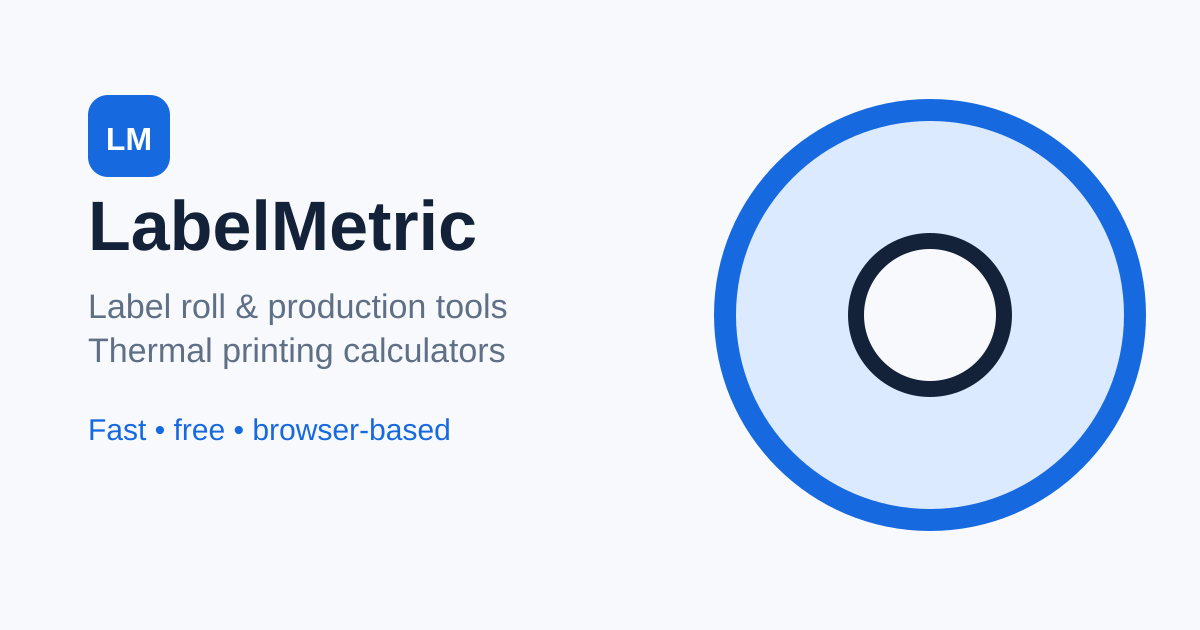
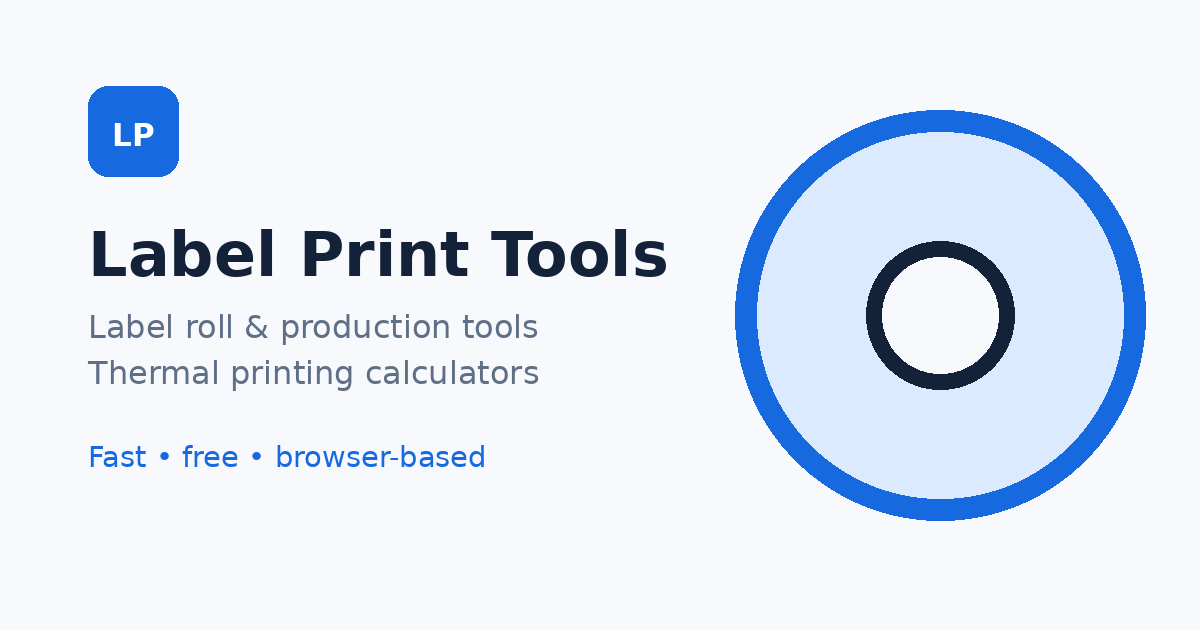
Add files via upload

diff --git a/src/config/site.ts b/src/config/site.ts
@@ -1,10 +1,10 @@
 export const siteConfig = {
-  name: 'LabelMetric',
-  shortName: 'LabelMetric',
-  tagline: 'Label printing calculators that work on the production floor.',
+  name: 'Label Print Tools',
+  shortName: 'Label Print Tools',
+  tagline: 'Free label printing calculators and production tools.',
   description:
     'Free label printing calculators for roll capacity, remaining labels, roll diameter, web width, thermal ribbons, ZPL dimensions, sheet layouts and production planning.',
-  email: 'hello@labelmetric.example',
+  email: 'hello@labelprinttools.com',
   socialImage: '/social-card.png',
   nav: [
     { label: 'Label Rolls', href: '/label-roll/' },

diff --git a/src/pages/robots.txt.ts b/src/pages/robots.txt.ts
@@ -3,7 +3,7 @@ import type { APIRoute } from 'astro';
 export const prerender = true;
 
 export const GET: APIRoute = ({ site }) => {
-  const base = site ?? new URL('https://labelmetric.example');
+  const base = site ?? new URL('https://www.labelprinttools.com');
   const body = `User-agent: *\nAllow: /\n\nSitemap: ${new URL('/sitemap-index.xml', base).toString()}\n`;
   return new Response(body, { headers: { 'Content-Type': 'text/plain; charset=utf-8' } });
 };

diff --git a/src/lib/seo.ts b/src/lib/seo.ts
@@ -1,7 +1,7 @@
 import { siteConfig } from '../config/site';
 
 export function absoluteUrl(pathname: string, site?: URL | string | null): string {
-  const base = site ? site.toString() : 'https://labelmetric.example';
+  const base = site ? site.toString() : 'https://www.labelprinttools.com';
   return new URL(pathname, base).toString();
 }
 

diff --git a/src/lib/calculator-ui.ts b/src/lib/calculator-ui.ts
@@ -40,7 +40,7 @@ export function setError(message = '') {
 }
 
 export function rememberForm(form: HTMLFormElement, key: string) {
-  const storageKey = `labelmetric:${key}`;
+  const storageKey = `labelprinttools:${key}`;
   try {
     const saved = localStorage.getItem(storageKey);
     if (saved) {

diff --git a/README.md b/README.md
@@ -1,4 +1,4 @@
-# LabelMetric
+# Label Print Tools
 
 A production-ready Astro + TypeScript website for label-roll, label-production and thermal-printing calculators.
 
@@ -59,15 +59,11 @@ $env:SITE_URL="https://www.yourdomain.com"
 npm run build
 ```
 
-## 2. Change the brand and contact email
+## 2. Brand and canonical domain
 
-Edit only:
+The project is configured for **Label Print Tools** and the planned public domain **https://www.labelprinttools.com**.
 
-`src/config/site.ts`
-
-The starter uses **LabelMetric** as a working brand and `hello@labelmetric.example` as a placeholder email. Replace the email before public launch. If you choose a different brand, change it in this config file.
-
-The final public domain is controlled by the `SITE_URL` environment variable, not hard-coded across the pages.
+Brand/contact settings live in `src/config/site.ts`. The production canonical origin can be overridden with the `SITE_URL` environment variable. Before the custom domain is connected, the Vercel preview can still be used for testing; do not submit the preview URL to search engines.
 
 ## 3. Put the project on GitHub
 
@@ -76,7 +72,7 @@ Create a new empty GitHub repository, then from this project folder run:
 ```bash
 git init
 git add .
-git commit -m "Initial LabelMetric launch"
+git commit -m "Initial Label Print Tools launch"
 git branch -M main
 git remote add origin https://github.com/YOUR-USERNAME/YOUR-REPO.git
 git push -u origin main
@@ -91,7 +87,7 @@ You can also upload the extracted project folder through GitHub's web interface,
 3. Vercel should detect **Astro** automatically.
 4. Build command: `npm run build`
 5. Output directory: `dist`
-6. Add an environment variable named `SITE_URL` with the final canonical origin, for example `https://www.example.com`.
+6. Add an environment variable named `SITE_URL` with the final canonical origin, use `https://www.labelprinttools.com` once the custom domain is connected.
 7. Deploy.
 
 The site uses static output, so no database, paid API or server runtime is required for the calculators.
@@ -100,7 +96,7 @@ The site uses static output, so no database, paid API or server runtime is requi
 
 In Vercel open the project and go to **Settings → Domains**. Add both your root domain and the `www` version if you plan to use both. Vercel will show the DNS records required for your exact configuration. Add those records at your domain registrar.
 
-Choose one public version as the primary domain (for example `https://www.example.com`) and set `SITE_URL` to that exact origin. Redeploy after changing `SITE_URL` so canonicals, sitemap URLs, robots.txt and structured-data URLs use the final domain.
+Choose one public version as the primary domain (for example `https://www.labelprinttools.com`) and set `SITE_URL` to that exact origin. Redeploy after changing `SITE_URL` so canonicals, sitemap URLs, robots.txt and structured-data URLs use the final domain.
 
 Do not hard-code an old Vercel DNS IP from a tutorial; use the DNS values Vercel displays for your project at deployment time.
 
@@ -121,8 +117,7 @@ After the custom domain is live:
 
 Before public launch, replace:
 
-- Placeholder contact email in `src/config/site.ts`
-- Working brand if you choose another name
+- Confirm the contact email in `src/config/site.ts` can receive mail
 - Privacy/Terms wording with the final operator/contact details and any analytics or advertising disclosures you actually use
 
 If you add Google Analytics, AdSense, affiliate tracking, cookie tools or other third-party scripts later, update the privacy policy and consent behavior to match the jurisdictions and services involved.

diff --git a/PROJECT_MANIFEST.md b/PROJECT_MANIFEST.md
@@ -1,4 +1,4 @@
-# LabelMetric Launch Manifest
+# Label Print Tools Launch Manifest
 
 ## Launch calculators
 
@@ -57,8 +57,8 @@
 
 ## Before public launch
 
-- Choose and verify the final brand/domain.
-- Replace placeholder email in `src/config/site.ts`.
-- Set Vercel `SITE_URL` to the exact primary production origin.
+- Brand/domain selected: **Label Print Tools** / **https://www.labelprinttools.com**.
+- Confirm `hello@labelprinttools.com` is configured or change the contact email in `src/config/site.ts`.
+- Set Vercel `SITE_URL` to `https://www.labelprinttools.com` when the custom domain is connected.
 - Review final Privacy/Terms wording for the site owner and any analytics/ads actually added.
 - After deployment, submit the sitemap to Google Search Console and Bing Webmaster Tools.
